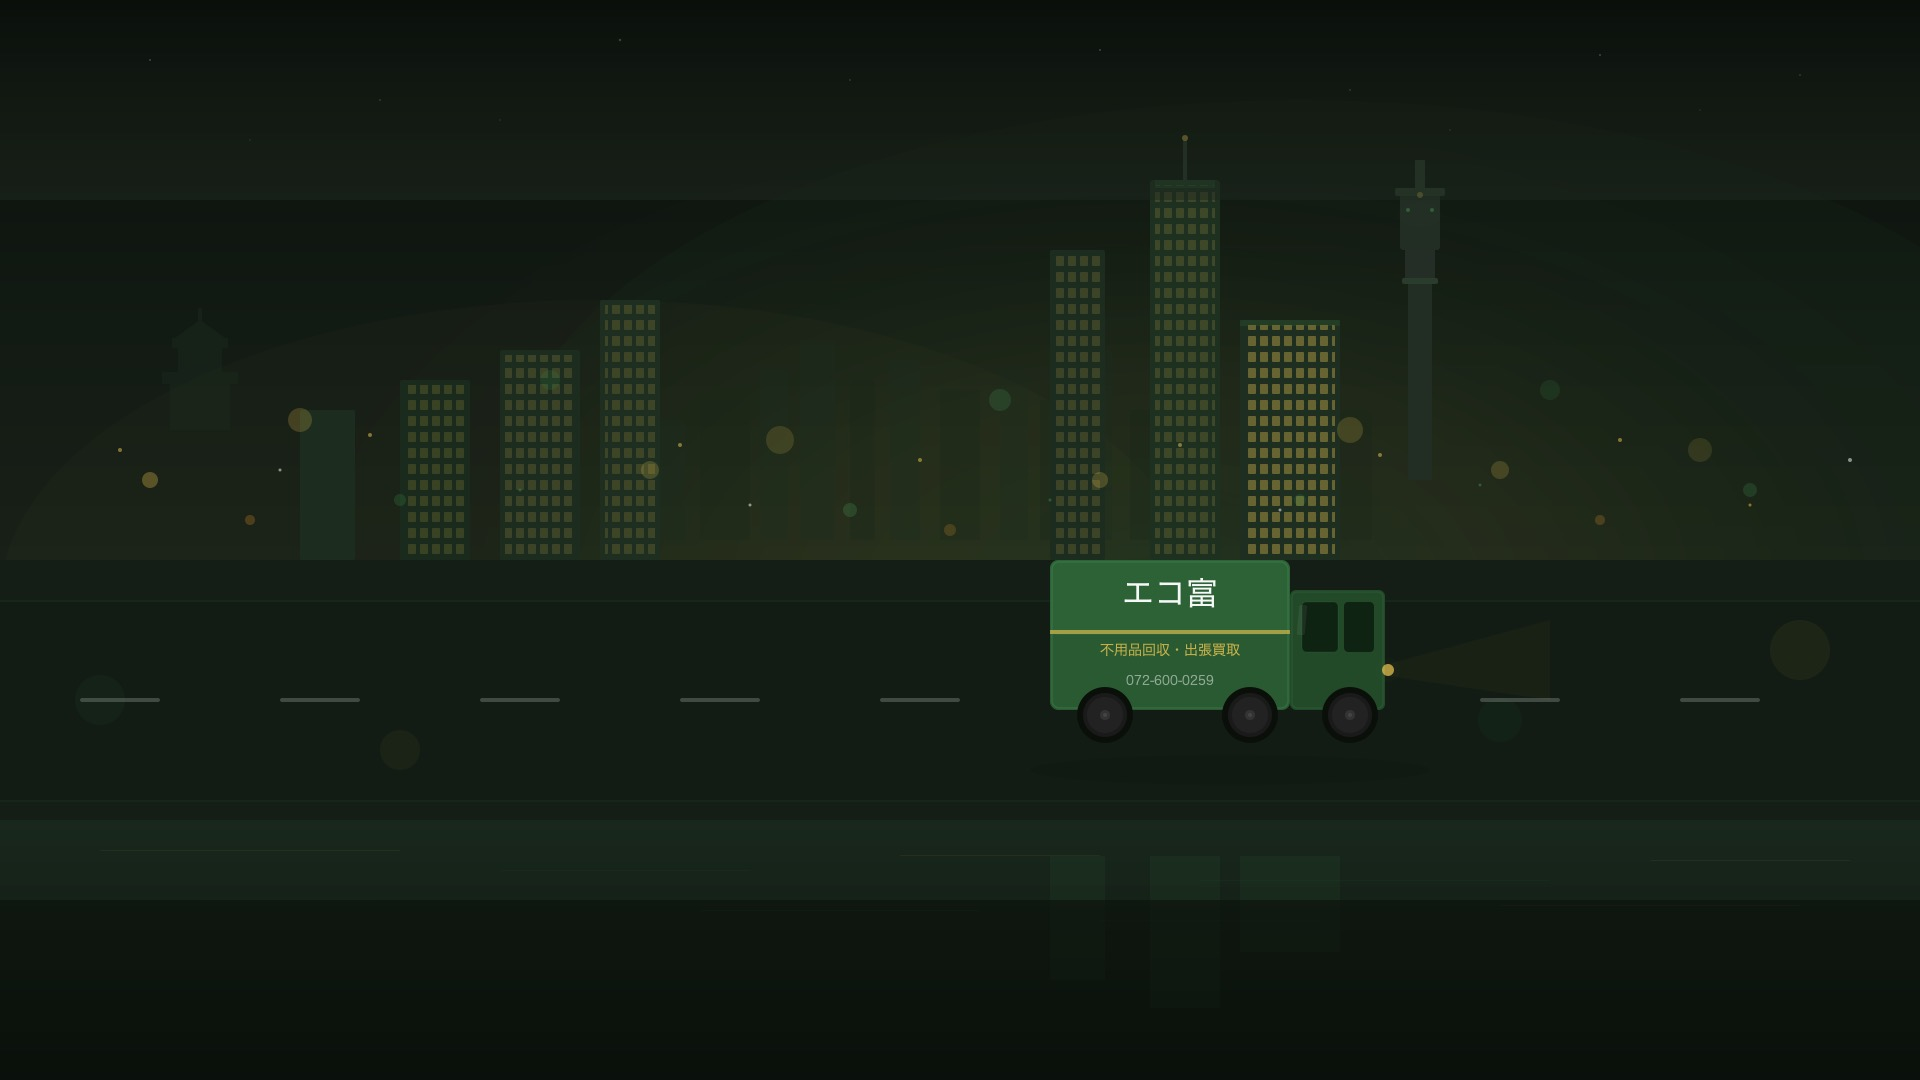
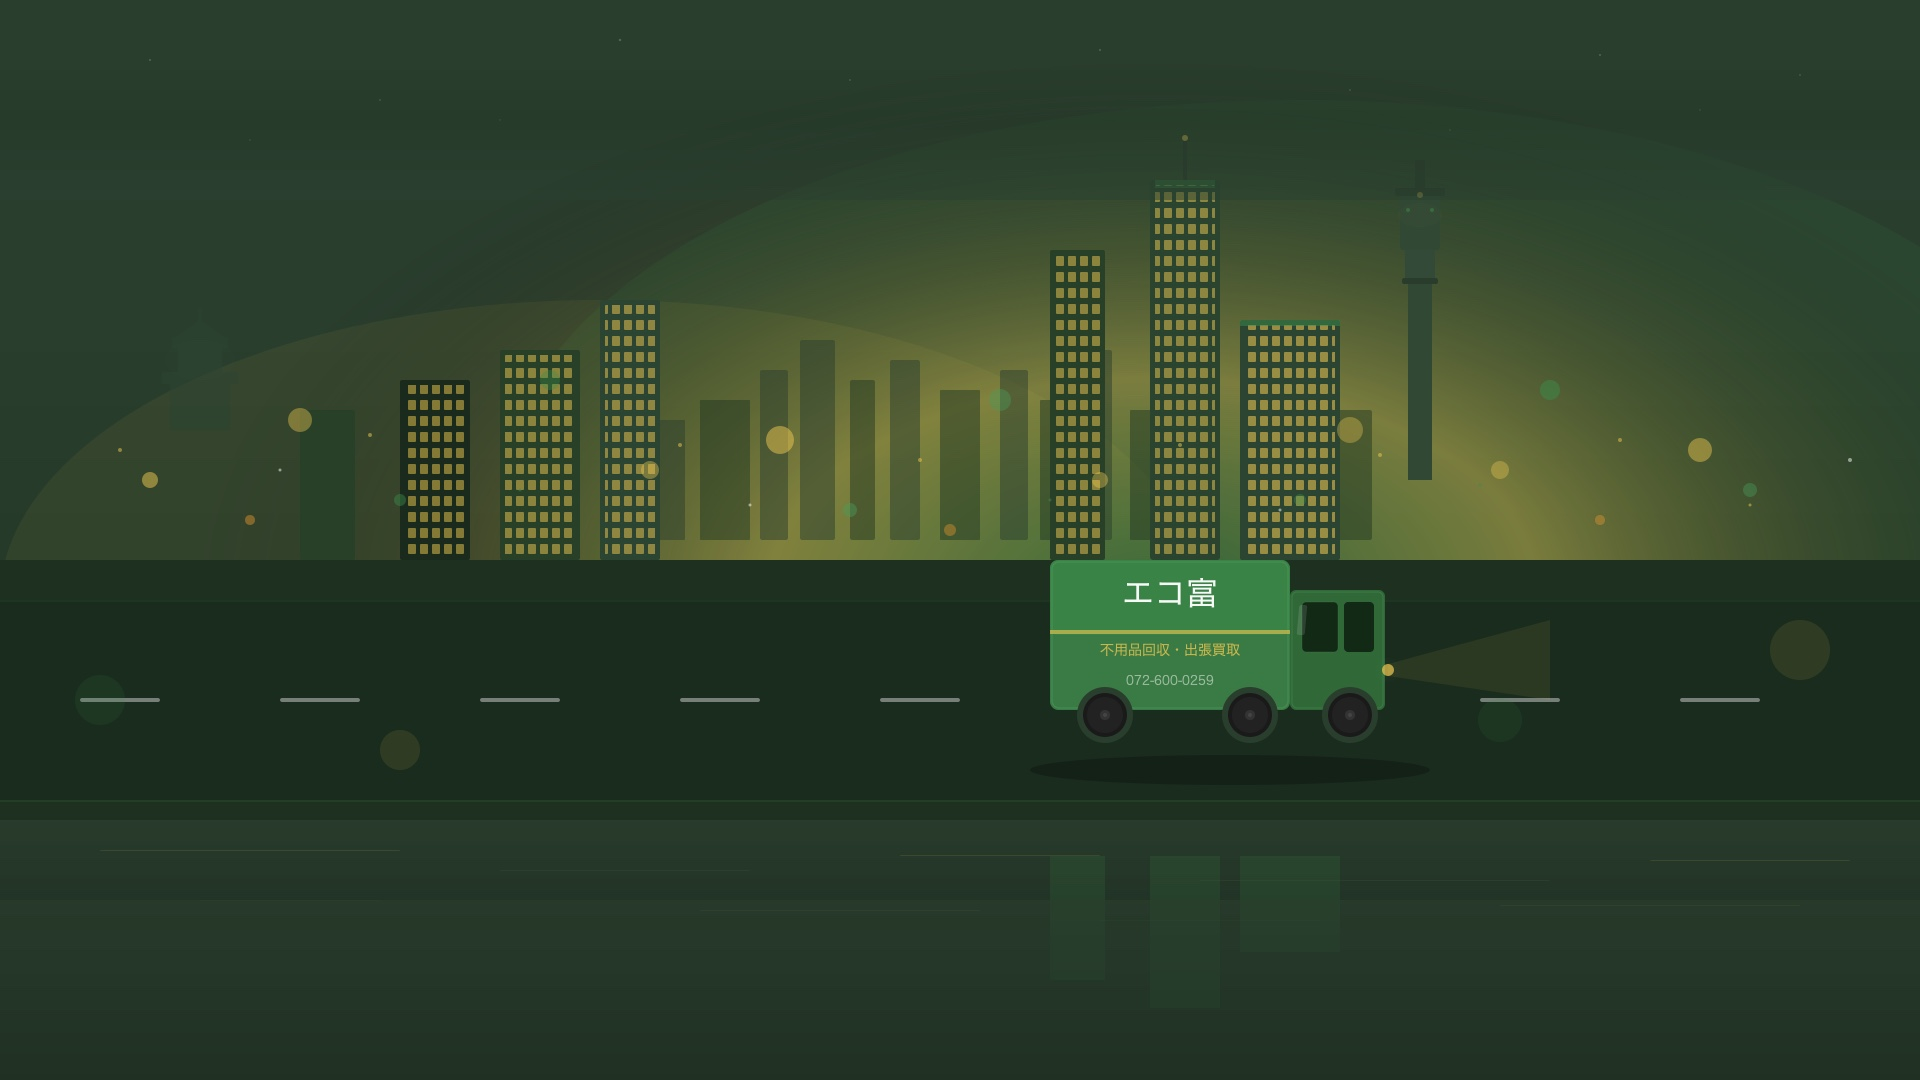
fix: ヒーロー背景画像を鮮明化
- SVG全体の明度・不透明度を大幅に引き上げ
- ビル群・トラック・ボケ光がくっきり見える
- CSSのbrightness(0.7)フィルターを撤去

diff --git a/不用品LP/front-page.php b/不用品LP/front-page.php
@@ -28,7 +28,7 @@
 電話
 </a> <a href="https://lin.ee/nFNy7hh" target="_blank" rel="noopener noreferrer" class="flex items-center justify-center gap-1.5 bg-line hover:brightness-110 text-white font-bold text-[11px] md:text-sm px-3 md:px-5 py-2 md:py-3 rounded-lg md:rounded-xl transition-all shadow-md"> <svg xmlns="http://www.w3.org/2000/svg" class="w-3.5 h-3.5 md:w-5 md:h-5 flex-shrink-0" viewBox="0 0 24 24" fill="currentColor"><path d="M19.365 9.863c.349 0 .63.285.63.631 0 .345-.281.63-.63.63H17.61v1.125h1.755c.349 0 .63.283.63.63 0 .344-.281.629-.63.629h-2.386c-.345 0-.627-.285-.627-.629V8.108c0-.345.282-.63.63-.63h2.386c.346 0 .627.285.627.63 0 .349-.281.63-.63.63H17.61v1.125h1.755zm-3.855 3.016c0 .27-.174.51-.432.596-.064.021-.133.031-.199.031-.211 0-.391-.09-.51-.25l-2.443-3.317v2.94c0 .344-.279.629-.631.629-.346 0-.626-.285-.626-.629V8.108c0-.27.173-.51.43-.595.06-.023.136-.033.194-.033.195 0 .375.104.495.254l2.462 3.33V8.108c0-.345.282-.63.63-.63.345 0 .63.285.63.63v4.771zm-5.741 0c0 .344-.282.629-.631.629-.345 0-.627-.285-.627-.629V8.108c0-.345.282-.63.63-.63.346 0 .628.285.628.63v4.771zm-2.466.629H4.917c-.345 0-.63-.285-.63-.629V8.108c0-.345.285-.63.63-.63.348 0 .63.285.63.63v4.141h1.756c.348 0 .629.283.629.63 0 .344-.282.629-.629.629M24 10.314C24 4.943 18.615.572 12 .572S0 4.943 0 10.314c0 4.811 4.27 8.842 10.035 9.608.391.082.923.258 1.058.59.12.301.079.766.038 1.08l-.164 1.02c-.045.301-.24 1.186 1.049.645 1.291-.539 6.916-4.078 9.436-6.975C23.176 14.393 24 12.458 24 10.314"></path></svg>
 LINE
-</a> </div> </div> </header> <main class="pt-[72px] md:pt-[124px]"> <!-- ═══════════════════════════════════════════════ --> <!--  HERO                                          --> <!-- ═══════════════════════════════════════════════ --> <section class="bg-dark text-white"> <!-- PC: 背景画像+テキストオーバーレイ --> <div class="relative hidden md:block overflow-hidden hero-luxury"> <picture><source srcset="<?php echo esc_url(ecotomi_asset('images/hero-staff.webp')); ?>" type="image/webp"><img src="<?php echo esc_url(ecotomi_asset('images/hero-staff.jpg')); ?>" alt="" class="absolute inset-0 w-full h-full object-cover" style="filter:brightness(0.7)" fetchpriority="high" loading="eager"></picture> <div class="absolute inset-0 bg-gradient-to-r from-dark via-dark/85 via-60% to-dark/20"></div> <div class="absolute inset-0 bg-gradient-to-t from-dark via-dark/30 to-transparent"></div> <div class="particle-field" aria-hidden="true"><span></span><span></span><span></span><span></span><span></span><span></span><span></span><span></span></div> <div class="relative max-w-6xl mx-auto px-5 py-32 w-full" style="z-index:2"> <div class="max-w-xl"> <div class="inline-flex items-center gap-2 badge-luxury rounded-full px-4 py-1.5 text-xs font-bold mb-6 badge-pulse"> <span class="relative flex h-2 w-2"><span class="animate-ping absolute inline-flex h-full w-full rounded-full bg-terra opacity-75"></span><span class="relative inline-flex rounded-full h-2 w-2 bg-terra-light"></span></span>
+</a> </div> </div> </header> <main class="pt-[72px] md:pt-[124px]"> <!-- ═══════════════════════════════════════════════ --> <!--  HERO                                          --> <!-- ═══════════════════════════════════════════════ --> <section class="bg-dark text-white"> <!-- PC: 背景画像+テキストオーバーレイ --> <div class="relative hidden md:block overflow-hidden hero-luxury"> <picture><source srcset="<?php echo esc_url(ecotomi_asset('images/hero-staff.webp')); ?>" type="image/webp"><img src="<?php echo esc_url(ecotomi_asset('images/hero-staff.jpg')); ?>" alt="" class="absolute inset-0 w-full h-full object-cover" fetchpriority="high" loading="eager"></picture> <div class="absolute inset-0 bg-gradient-to-r from-dark via-dark/85 via-60% to-dark/20"></div> <div class="absolute inset-0 bg-gradient-to-t from-dark via-dark/30 to-transparent"></div> <div class="particle-field" aria-hidden="true"><span></span><span></span><span></span><span></span><span></span><span></span><span></span><span></span></div> <div class="relative max-w-6xl mx-auto px-5 py-32 w-full" style="z-index:2"> <div class="max-w-xl"> <div class="inline-flex items-center gap-2 badge-luxury rounded-full px-4 py-1.5 text-xs font-bold mb-6 badge-pulse"> <span class="relative flex h-2 w-2"><span class="animate-ping absolute inline-flex h-full w-full rounded-full bg-terra opacity-75"></span><span class="relative inline-flex rounded-full h-2 w-2 bg-terra-light"></span></span>
 相見積もり大歓迎 ― 他社の見積もりお持ちください
 </div> <h1 class="hidden md:block text-5xl lg:text-6xl font-black leading-[1.1] mb-5 tracking-tight" style="text-shadow: 0 2px 20px rgba(0,0,0,0.7), 0 0 60px rgba(58,140,74,0.2);">
 大阪の不用品回収・<br>出張買取なら<br> <span class="text-gold-shimmer" style="font-size:1.15em">エコ富</span> </h1> <p class="text-white/80 text-base mb-6 max-w-md leading-relaxed" style="text-shadow: 0 1px 6px rgba(0,0,0,0.4);">
